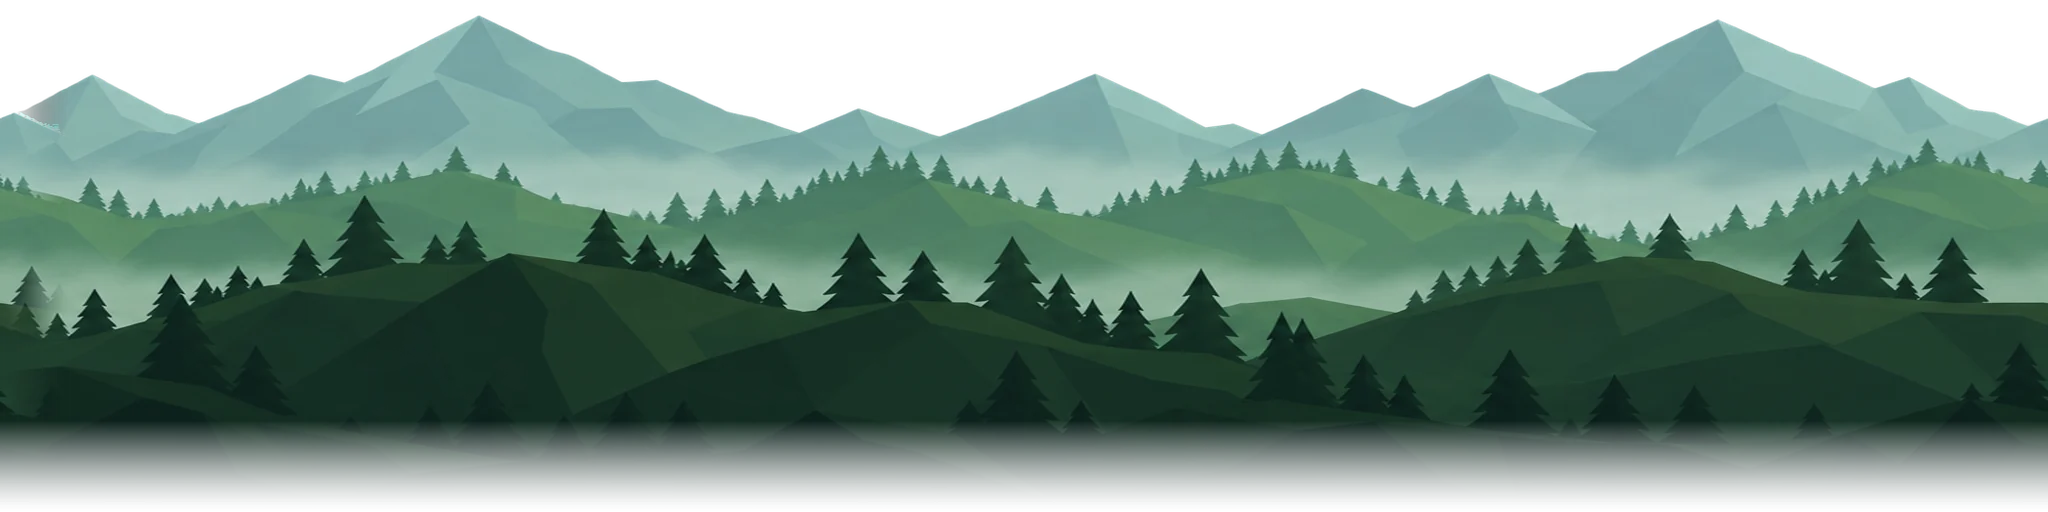
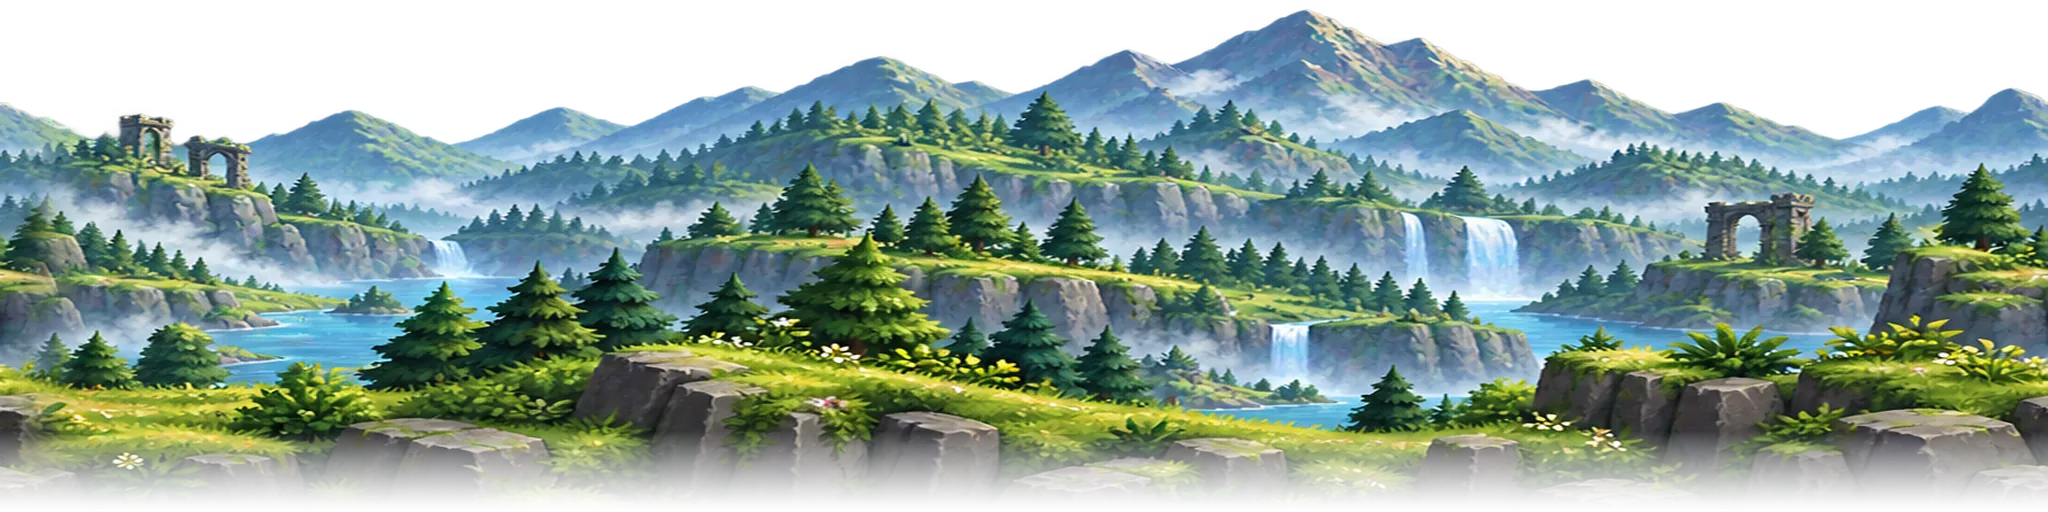
Add files via upload

diff --git a/sw.js b/sw.js
@@ -1,6 +1,6 @@
 /* HY ENG 서비스워커 — 게임 파일을 캐시해 두 번째부터는 오프라인에서도 실행됩니다.
    게임을 수정한 뒤에는 아래 VERSION 숫자를 꼭 올리세요. 그래야 새 버전이 반영됩니다. */
-const VERSION = "hyeng-v68";
+const VERSION = "hyeng-v69";
 const CORE = [
   "./",
   "./index.html",
